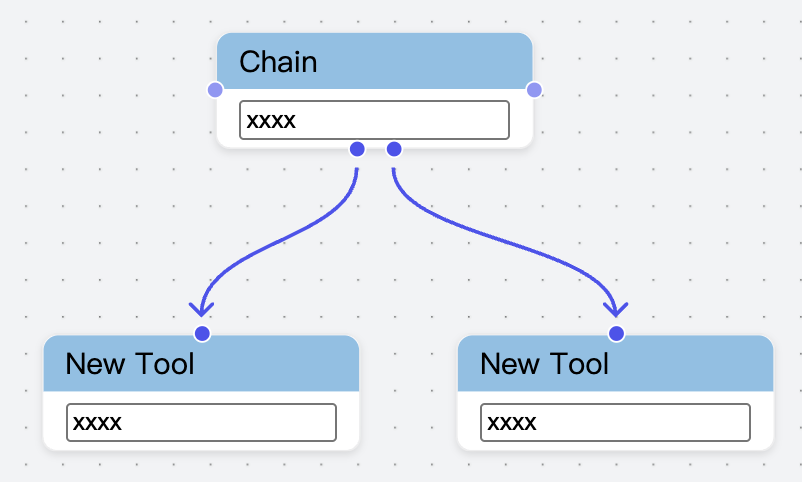
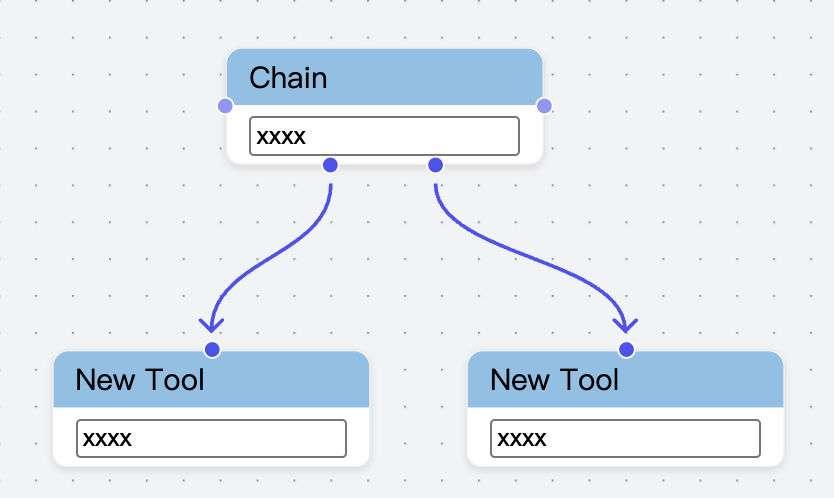
feat(free-layout-core): add  "locationConfig" paramter to port config and support percentage string values

diff --git a/packages/canvas-engine/free-layout-core/src/entities/workflow-port-entity.ts b/packages/canvas-engine/free-layout-core/src/entities/workflow-port-entity.ts
@@ -3,6 +3,11 @@
  * SPDX-License-Identifier: MIT
  */
 
+/**
+ * Copyright (c) 2025 Bytedance Ltd. and/or its affiliates
+ * SPDX-License-Identifier: MIT
+ */
+
 import { type IPoint, Rectangle, Emitter, Compare } from '@flowgram.ai/utils';
 import { FlowNodeTransformData } from '@flowgram.ai/document';
 import {
@@ -20,6 +25,7 @@ import {
   WORKFLOW_LINE_ENTITY,
   domReactToBounds,
 } from '../utils/statics';
+import { locationConfigToPoint } from '../utils/location-config-to-point';
 import { type WorkflowNodeMeta, LinePointLocation, LinePoint } from '../typings';
 import { type WorkflowNodeEntity } from './workflow-node-entity';
 import { type WorkflowLineEntity } from './workflow-line-entity';
@@ -41,13 +47,33 @@ export interface WorkflowPort {
    */
   location?: LinePointLocation;
   /**
-   * 端口热区大小
+   * 端口位置配置
+   * @example
+   *  // bottom-center
+   *  {
+   *    left: '50%',
+   *    bottom: 0
+   *  }
+   *  // right-center
+   *  {
+   *    right: 0,
+   *    top: '50%'
+   *  }
    */
-  size?: { width: number; height: number };
+  locationConfig?: {
+    left?: string | number;
+    top?: string | number;
+    right?: string | number;
+    bottom?: string | number;
+  };
   /**
    * 相对于 location 的偏移
    */
   offset?: IPoint;
+  /**
+   * 端口热区大小
+   */
+  size?: { width: number; height: number };
   /**
    * 禁用端口
    */
@@ -85,6 +111,8 @@ export class WorkflowPortEntity extends Entity<WorkflowPortEntityOpts> {
 
   private _location?: LinePointLocation;
 
+  private _locationConfig?: WorkflowPort['locationConfig'];
+
   private _size?: { width: number; height: number };
 
   private _offset?: IPoint;
@@ -113,6 +141,7 @@ export class WorkflowPortEntity extends Entity<WorkflowPortEntityOpts> {
     this.portType = opts.type;
     this._disabled = opts.disabled;
     this._offset = opts.offset;
+    this._locationConfig = opts.locationConfig;
     this._location = opts.location;
     this._size = opts.size;
     this.node = opts.node;
@@ -164,7 +193,7 @@ export class WorkflowPortEntity extends Entity<WorkflowPortEntityOpts> {
   }
 
   get point(): LinePoint {
-    const { targetElement } = this;
+    const { targetElement, _locationConfig } = this;
     const { bounds } = this.node.getData(FlowNodeTransformData)!;
     const location = this.location;
     if (targetElement) {
@@ -181,8 +210,14 @@ export class WorkflowPortEntity extends Entity<WorkflowPortEntityOpts> {
         location,
       };
     }
-    let point = { x: 0, y: 0 };
+    if (_locationConfig) {
+      return {
+        ...locationConfigToPoint(bounds, _locationConfig, this._offset),
+        location,
+      };
+    }
     const offset = this._offset || { x: 0, y: 0 };
+    let point = { x: 0, y: 0 };
     switch (location) {
       case 'left':
         point = bounds.leftCenter;
@@ -305,6 +340,10 @@ export class WorkflowPortEntity extends Entity<WorkflowPortEntityOpts> {
     }
     if (Compare.isChanged(data.offset, this._offset)) {
       this._offset = data.offset;
+      changed = true;
+    }
+    if (Compare.isChanged(data.locationConfig, this._locationConfig)) {
+      this._locationConfig = data.locationConfig;
       changed = true;
     }
     if (Compare.isChanged(data.size, this._size)) {

diff --git a/packages/canvas-engine/free-layout-core/__tests__/utils/location-config-to-point.test.ts b/packages/canvas-engine/free-layout-core/__tests__/utils/location-config-to-point.test.ts
@@ -1,0 +1,35 @@
+/**
+ * Copyright (c) 2025 Bytedance Ltd. and/or its affiliates
+ * SPDX-License-Identifier: MIT
+ */
+
+import { expect } from 'vitest';
+import { Rectangle } from '@flowgram.ai/utils';
+
+import { locationConfigToPoint } from '../../src/utils/location-config-to-point';
+
+test('locationConfigToPoint', () => {
+  const bounds = new Rectangle(10, 10, 100, 100);
+  expect(locationConfigToPoint(bounds, { left: 0, top: 0 })).toEqual(bounds.leftTop);
+  expect(locationConfigToPoint(bounds, { left: 0, bottom: 0 })).toEqual(bounds.leftBottom);
+  expect(locationConfigToPoint(bounds, { right: 0, bottom: 0 })).toEqual(bounds.rightBottom);
+  expect(locationConfigToPoint(bounds, { right: 0, top: 0 })).toEqual(bounds.rightTop);
+  expect(locationConfigToPoint(bounds, { left: 0, top: '0%' })).toEqual(bounds.leftTop);
+  expect(locationConfigToPoint(bounds, { right: 0, bottom: '0%' })).toEqual(bounds.rightBottom);
+  expect(locationConfigToPoint(bounds, { left: 0, top: '50%' })).toEqual(bounds.leftCenter);
+  expect(locationConfigToPoint(bounds, { right: 0, bottom: '50%' })).toEqual(bounds.rightCenter);
+  expect(locationConfigToPoint(bounds, { left: '50%', bottom: 0 })).toEqual(bounds.bottomCenter);
+  expect(locationConfigToPoint(bounds, { right: '50%', top: 0 })).toEqual(bounds.topCenter);
+  expect(locationConfigToPoint(bounds, { left: '50%', top: '50%' })).toEqual(bounds.center);
+  expect(locationConfigToPoint(bounds, { right: '50%', bottom: '50%' })).toEqual(bounds.center);
+  expect(locationConfigToPoint(bounds, { left: 11, top: 11 })).toEqual({ x: 21, y: 21 });
+  expect(locationConfigToPoint(bounds, { right: 11, bottom: 11 })).toEqual({
+    x: 10 + 100 - 11,
+    y: 10 + 100 - 11,
+  });
+  // with offset
+  expect(locationConfigToPoint(bounds, { left: 11, top: 11 }, { x: 100, y: 100 })).toEqual({
+    x: 121,
+    y: 121,
+  });
+});

diff --git a/packages/canvas-engine/free-layout-core/src/utils/location-config-to-point.ts b/packages/canvas-engine/free-layout-core/src/utils/location-config-to-point.ts
@@ -1,0 +1,40 @@
+/**
+ * Copyright (c) 2025 Bytedance Ltd. and/or its affiliates
+ * SPDX-License-Identifier: MIT
+ */
+
+import { Rectangle, IPoint } from '@flowgram.ai/utils';
+
+import { WorkflowPort } from '../entities';
+
+export function locationConfigToPoint(
+  bounds: Rectangle,
+  config: Required<WorkflowPort>['locationConfig'],
+  _offset: IPoint = { x: 0, y: 0 }
+): IPoint {
+  const offset = { ..._offset };
+  if (config.left !== undefined) {
+    offset.x +=
+      typeof config.left === 'string' ? parseFloat(config.left) * 0.01 * bounds.width : config.left;
+  } else if (config.right !== undefined) {
+    offset.x +=
+      bounds.width -
+      (typeof config.right === 'string'
+        ? parseFloat(config.right) * 0.01 * bounds.width
+        : config.right);
+  }
+  if (config.top !== undefined) {
+    offset.y +=
+      typeof config.top === 'string' ? parseFloat(config.top) * 0.01 * bounds.height : config.top;
+  } else if (config.bottom !== undefined) {
+    offset.y +=
+      bounds.height -
+      (typeof config.bottom === 'string'
+        ? parseFloat(config.bottom) * 0.01 * bounds.height
+        : config.bottom);
+  }
+  return {
+    x: bounds.x + offset.x,
+    y: bounds.y + offset.y,
+  };
+}

diff --git a/apps/demo-free-layout-simple/src/node-registries.ts b/apps/demo-free-layout-simple/src/node-registries.ts
@@ -32,8 +32,18 @@ export const nodeRegistries: WorkflowNodeRegistry[] = [
       defaultPorts: [
         { type: 'input' },
         { type: 'output' },
-        { portID: 'p4', location: 'bottom', offset: { x: -10, y: 0 }, type: 'output' },
-        { portID: 'p5', location: 'bottom', offset: { x: 10, y: 0 }, type: 'output' },
+        {
+          portID: 'p4',
+          location: 'bottom',
+          locationConfig: { left: '33%', bottom: 0 },
+          type: 'output',
+        },
+        {
+          portID: 'p5',
+          location: 'bottom',
+          locationConfig: { left: '66%', bottom: 0 },
+          type: 'output',
+        },
       ],
     },
   },
